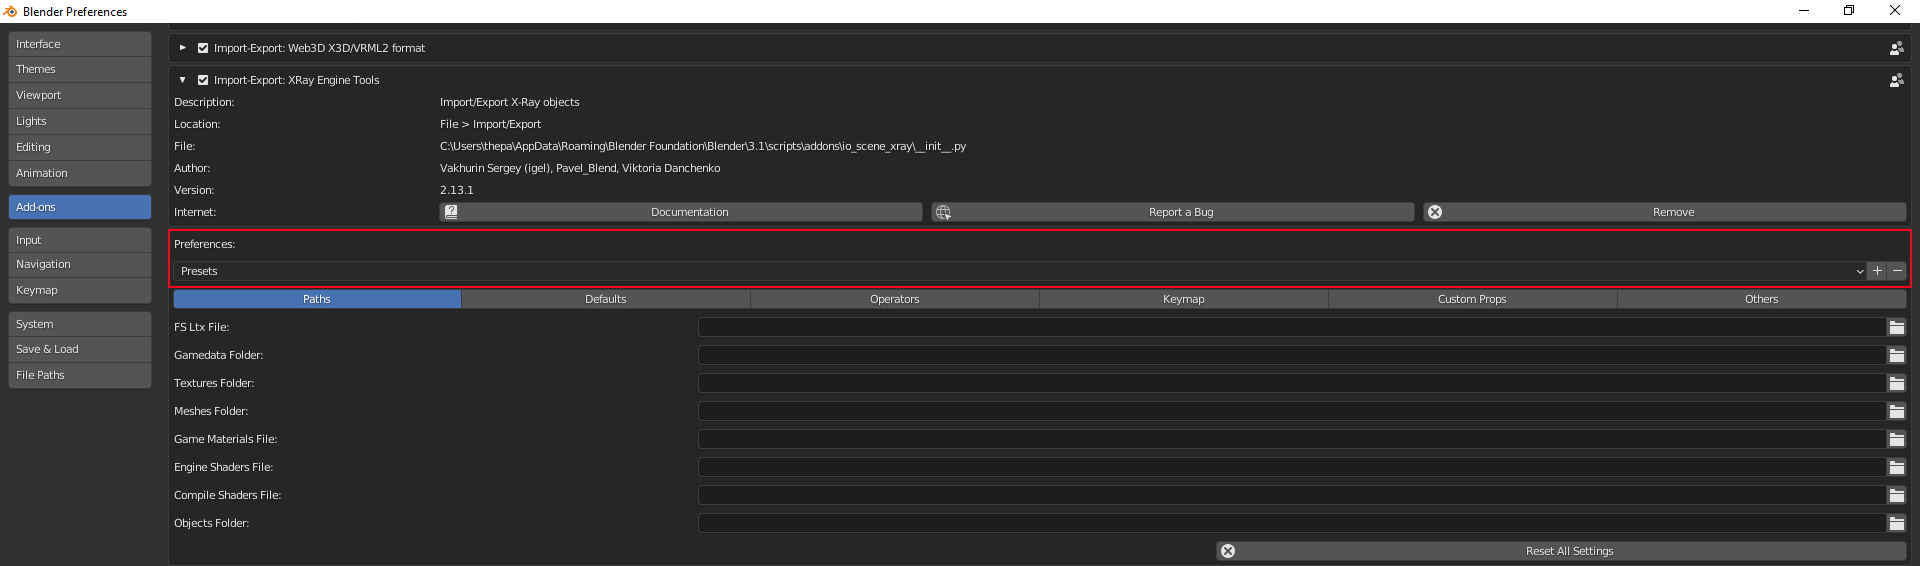
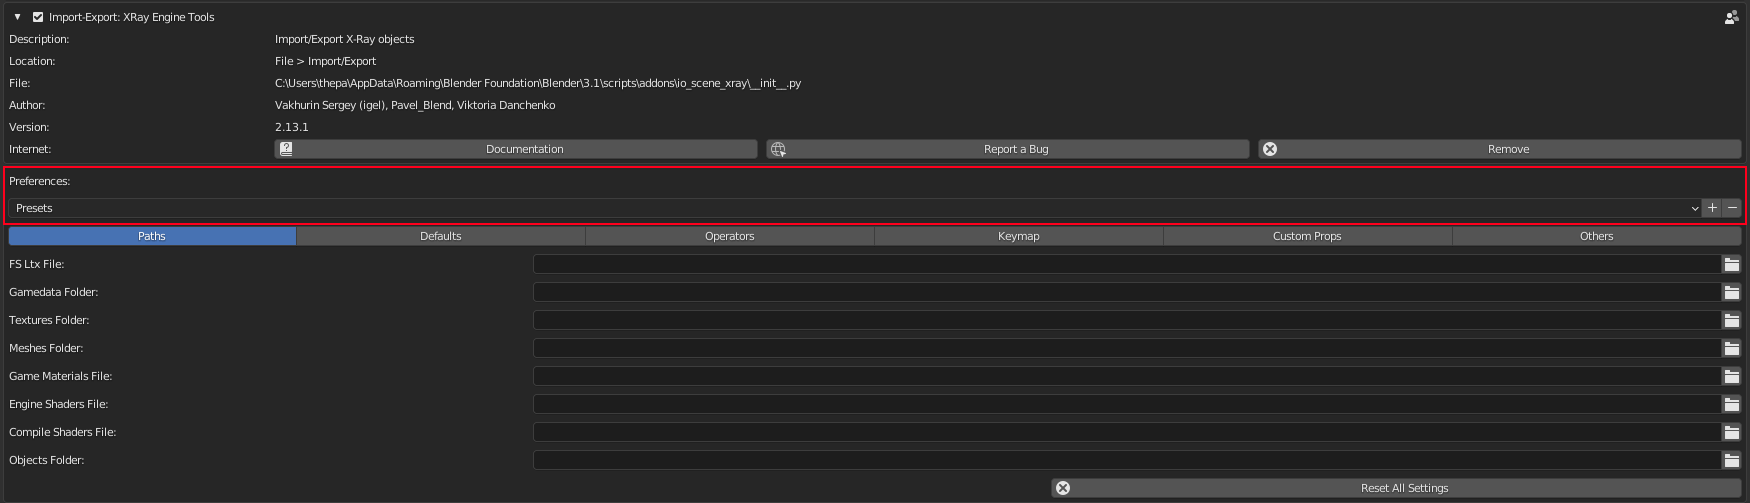
Added: Cosmetic improvements Even more readable screenshots Article about creating a model in Blender Supported Format Table

diff --git a/src/blender/creating-model-in-blender.md b/src/blender/creating-model-in-blender.md
@@ -1,15 +1,18 @@
 # Creating/downloading a model and adding it to the game via Blender
 
+This article is about creating a model and setting its parameters
+
 ## Beginning
 
-First, familiarize yourself with the limitations and capabilities of the format [.object](file-formats/.object.md) (because you may export to it more often than to .ogf) to avoid errors.
+- First, familiarize yourself with the limitations and capabilities of the format [.object](../main-folders-and-files/file-formats/object.md) (because you may export to it more often than to .ogf) to avoid errors.
+- This article will talk about textures, read an article about creating and preparing them
 
 ## Start
 
 Create or download the model you like.
 Do a UV sweep if you don't have one.
 
-### Example:
+- ### Example:
 
 The model itself:
 ![model-example](blender-images/model-example.png)
@@ -20,3 +23,176 @@ UV:
 ## Texturing
 
 Textures can be created in any program designed for this purpose, or you can simply download them.
+
+Texture:
+![model-example-texture](blender-images/model-example-texture.png)
+
+- ### Important note about texture maps
+In STALKER, due to its outdated engine, only the following texture maps are used:
+- Color Map ([.dds])
+- Normal Maps (For Stalker they are used as [.bump]() and .bump#) (The Blender X-Ray addon does not support the .bump format at this time (June 2022).)
+
+So extra texture maps will have to be removed.
+
+Here you need to add your created texture in [.dds] format
+
+As a result, in the Shader Editor our textures should look something like this:
+![model-example-texture-shading](blender-images/model-example-texture-shading.png)
+
+So after creating the model, the UV and the texture, the setup within Blender begins.
+
+## Setting up
+
+- ### Model
+First, the model itself will be set up. 
+You can start by positioning the model over the origin in this way (The ["Drop It"](https://andreasaust.gumroad.com/l/drop_it) addon for Blender is highly recommended for such actions):
+![model-example-coordinates](blender-images/model-example-coordinates.png)
+
+Then apply the coordinates with Ctrl + A > All Transform. This will allow us (if you make for example a model library or work in the SDK) to drag and drop the model on the surface.
+
+Next, we need to adjust our model to normal size (so that in the game it will not be big or small).
+If you have already set up the addon to use and set up the necessary paths to your folders, you need to import into the scene model of some person from the game.
+
+In the N-panel there should be a tab "X-Ray" in it unfolds the list "Viewer" and we click "Open Folder".
+![viewer-n-panel](blender-images/viewer-section.png)
+
+The Blender explorer window opens. Go to our unpacked folder with the game files (namely the folder "meshes").
+The character models you need are in the "actors" folder, where the faction models are sorted into folders. [(More about the structure of folders, main folders and files you can learn here)](../main-folders-and-files/README.md)
+![viewer-browser](blender-images/viewer-section-file-browser.png)
+
+Select the desired folder with the models and click on the "Open Folder" button. 
+![viewer-open-folder-button](blender-images/open-folder-button.png)
+
+Depending on the size of the models in the "Viewer" folder may take longer to open than you would like.
+So, "Viewer" is open. It shows all the models in the selected folder. Click on any model and a character model appears in front of us.
+![viewer-import](blender-images/importing-model-from-viewer.png)
+
+Next, we just adjust our model to acceptable proportions.
+After fitting, apply transformations to our object.
+![viewer-adjust](blender-images/aspect-ratio-correction.png)
+
+In the "Viewer" list, we can click on "Close Folder" to close the list of models and the model imported to us in the scene, too.
+Image Here
+
+At this point we have to decide what type of model we want to use (static, dynamic, or something else). (About the types of objects you can learn here)
+
+It was decided to make our object dynamic. 
+To do this, you need to create a bone and a vertex group (so that the bone can affect exactly the vertices you choose).
+Select the model and go to the "Object Data Properties" tab
+Image here
+
+Under "Vertex Groups" click on the plus sign (a "Vertex Group" with the name "Group" will be added) and double-click to rename it (the same name will be needed later for the bone).
+![vertex-group](blender-images/vertex-group.png)
+
+The next step is to create a bone (Shift + A > Armature > Single Bone).
+![bone-create](blender-images/create-bone.png)
+
+To make our model move like the bone in the future, we need to rename the bone to the name that was given to "Vertex Groups".
+Go to the "Bone Properties" tab and rename the bone.
+![bone-properties](blender-images/bone-properties.png)
+![bone-rename](blender-images/bone-rename.png)
+
+Select our object and switch to "Wireframe" mode ("Z" Button) (this is optional).
+Place the bone approximately in the center of the model.
+![bone-place](blender-images/bone-positing.png)
+
+After that, apply the bone transformations (Ctrl + A > All Transform).
+
+Select our model and go to the "Modifier Properties" tab.
+![modifier-properties](blender-images/modifier-properties.png)
+
+In the "Modifier Properties" tab, add the "Armature" modifier (Add Modifier > Armature (under Deform)).
+![armature-modif-create](blender-images/armature-modifier.png)
+
+The modifier has the following necessary items:
+- Object
+- Bind to (Add Checkbox svg) Vertex Groups
+
+In the "Object" field, select our bone (you can select it with the eyedropper (Add svg icon)).
+Also make sure that the checkbox next to "Vertex Grops" is marked.
+These actions allowed us to bond our object and bone, but not yet to the fullest extent.
+
+Next step:
+First select the bone after selecting the model, press Ctrl + P. A list appears, select "Bone".
+![parenting](blender-images/parent-to-bone.png)
+
+This allowed the bone and the model to be fully bonded together. Now when the bone moves or rotates, the model will move with it.
+
+Now you have to set the bone properties for X-Ray.
+
+- ### Bone
+Select the bone and go to the "Bone Properties" tab.
+![bone-properties-p2](blender-images/bone-properties.png)
+
+We see the "X-Ray Engine: Bone" section.
+![bone-section](blender-images/x-ray-engine-bone.png)
+
+The desired field is "Shape Type" (where you choose the type of shape (for collision)).
+From the whole list, our object is more suitable for the "Box" type. Let's choose it.
+Next, click the "Edit Shape" button to check and edit the Shape itself.
+The Shape of the bone appears and it does not match the model.
+The Shape that just appeared is automatically selected and the "Object Properties" tab is selected.
+![bone-shape](blender-images/create-shape.png)
+
+In the same tab we see the "X-Ray Engine: Edit Helper" section with three buttons:
+
+- Apply Shape (accepts changes to the bone shape)
+- Fit Shape (Blender will automatically try to fit the Shape to the size of the object)
+- Cancel (closes Shape editing mode)
+
+![edit-helper](blender-images/x-ray-engine-edit-helper.png)
+
+Apply Shape may help in some cases, but not in this one (nothing happens after clicking), so you need to adjust the Shape manually.
+Without going into Edit mode, press "S" and start fitting the Shape to the model. Going through the combinations, changing the shape of the Shape, we finally create an acceptable Shape.
+![bone-shape-p2](blender-images/shape-fit-handy.png)
+
+Accept the transformation by clicking on "Apply Shape". Everything will apply and the Shape will disappear.
+To check the correctness of the shape and adjust the center of mass for the bone, go to the "Object Data Properties" panel.
+![object-data-properties-panel](blender-images/object-data-properties-skeleton.png)
+
+Here we see the "X-Ray Engine: Skeleton" section and the two buttons we need:
+- Display Bone Shape
+- Display Bone Mass Centers
+
+![x-ray-engine-skeleton](blender-images/x-ray-engine-skeleton.png)
+
+Click on "Display Bone Shape" to check the bone shape
+![display-bone-shape](blender-images/display-bone-shape.png)
+
+And by clicking on "Display Bone Mass Centers" a Cross will appear, from which you can understand where the center of mass is located (its mass and location can be edited in the tab "Bone Properties").
+![display-bone-mass](blender-images/center-of-mass-editing.png)
+
+Go to the "Object Properties" tab.
+Here you will find the "X-Ray Engine: Object" section.
+![x-ray-engine-object](blender-images/x-ray-engine-object.png)
+
+Remember that our object, by design, will be dynamic, so click on the button "Object", where we select the type "Dynamic".
+
+The editing of the bone parameters is finished, the next step is Materials.
+
+- ### Material
+Select our object and go to the "Material Priperties" tab.
+![material-properties](blender-images/material-properties.png)
+
+Here we see the name of our material and a list of "X-Ray Engine: Material" with lots of items.
+![x-ray-engine-material](blender-images/x-ray-engine-material.png)
+
+There is no point in telling about each point here. (there is a separate section in the book)
+The items we need for the model now are:
+
+- Shader (This setting is responsible for the appearance of the surface.)
+- Compile (Here are descriptions of the settings that the level geometry compiler uses)
+- Material (Here you can select surface materials)
+
+You can leave everything as it is according to the default.
+
+Well, the model setup in Blender is done. Congratulations!
+
+## The final stage
+
+- ### Checking the model for correct operation
+To check the model you can go the following ways:
+
+- Load the model into the SDK and check
+- Export the model in .ogf format and add it directly to the game.
+- [Check the model and parameters through third-party programs](../modding-tools/modding-tools.md)

diff --git a/src/blender/addon-settings-options/pathes.md b/src/blender/addon-settings-options/pathes.md
@@ -15,26 +15,26 @@ The addon automatically sets these values:
 
 "-" - means that automatic path setting does not work for this parameter. The automatic path setting will work if you specify any parameter other than Objects Folder first.
 
-## - fs.ltx File
+- ## - fs.ltx File
 Path to the fs.ltx file. This file is in the X-Ray SDK and stores directory paths. Addon uses fs.ltx file only to automatically set the following paths: Gamedata Folder, Textures Folder, GameMtl File, EShader File, CShader File, Objects Folder. Only these variables from the file are used: $game_data$, $game_textures$, $objects$. The files gamemtl.xr, shaders.xr, shaders_xrlc.xr are searched in the directory that is specified in $game_data$. If parameters Gamedata Folder, Textures Folder, GameMtl File, EShader File, CShader File, Objects Folder are already configured, it is not necessary to specify fs.ltx File.
 Examples of use: this parameter is needed to set paths correctly automatically if fs.ltx file was edited and X-Ray SDK uses paths that are different from gamedata, gamedata\textures, rawdata\objects.
 
 - ## Gamedata Folder
 The path that must refer to the gamedata folder (or to the folder specified in $game_data$ if fs.ltx has been changed). This path is used only for automatic installation of the following parameters: Textures Folder, GameMtl File, EShader File, CShader File, Objects Folder. The paths are automatically set by adding Gamedata Folder and preset values. The values are set as follows: Textures Folder - textures, GameMtl File - gamemtl.xr, EShader File - shaders.xr, CShader File - shaders_xrlc.xr, Objects Folder - ..rawdata\objects, where .. in the beginning Objects Folder means go one folder back in path. That is, the path to the Objects Folder will look like this: c:\programs\xray_sdk\rawdata\objects\, if Gamedata Folder has the following value: c:\programs\xray_sdk\gamedata\.
 
-## - Textures Folder
+- ## - Textures Folder
 The path that should refer to $game_textures$. This is usually the gamedata\textures folder which contains the textures. Only the dds format is supported for loading. This path is only used by plugins that import/export formats that support textures (such as *.object, *.dm, *.ogf...). Some plugins do not use this path (for example, *.err, *.skls...). When importing some formats, the addon looks for dds textures at this path and loads them into blender.
 
-## - GameMtl File
+- ## - GameMtl File
 Path to the gamemtl.xr file. Normally stored in gamedata\gamemtl.xr. This file stores surface materials. In the X-Ray Engine a material is a physical property of the surface, and does not affect the visual presentation (not to be confused with blender materials, which affect visual appearance). X-Ray Engine uses shaders to change the appearance of the surface. The material determines the sounds of footsteps, wallmark textures from shots, friction, particle effects when bullets hit, the ability to get cast shadows from dynamic objects... If this path refers to a gamemtl.xr file, then the list of the parameter GameMtl for materials and dice will be filled with the material names from the gamemtl.xr file and from this list you can click on any material name. If this path does not reference the gamemtl.xr file, then the GameMtl list of materials and bones will be empty. Only the names, text descriptions and integer material IDs are read from the gamemtl.xr file.
 
-## - EShader File
+- ## - EShader File
 The path to the shaders.xr file. Usually stored in gamedata\shaders.xr. This file contains descriptions of shader settings. EShader is an engine shader that is responsible for surface appearance. If this path refers to the shaders.xr file, the EShader list in blender material settings will be filled in with shader names from this file and you will be able to specify any engine shader name from this list. If this path doesn't reference the shaders.xr file, the EShader list of materials will be empty. Only shader names are read from the shaders.xr file.
 
-## - CShader File
+- ## - CShader File
 Path to the shaders_xrlc.xr file. Usually stored in gamedata\shaders_xrlc.xr. This file contains descriptions of the settings that are used by the level geometry compiler (xrLC.exe). CShader - compile shader (compiler shader) specifying properties of the final (game) level geometry to the level compiler. The source geometry, depending on the compiler shader, may have no visible or tangible (for collisions) geometry, have a different way of storing lighting, etc. If this path refers to the shaders_xrlc.xr file, the CShader list in blender materials will fill with shader names from that file and you can specify any compiler shader name from the list. Only shader names are read from shaders_xrlc.xr file.
 
-## - Objects Folder
+- ## - Objects Folder
 Path to the folder with the original 3D objects and animations. Usually located in the X-Ray SDK in the rawdata\objects folder. From this folder, the addon can only read *.object and *.skls files. Not all plugins use this folder. Only the object plugin for source objects and the .level plugin for the list of scene objects use it. Also this parameter is used by some operators, for example, Skls File Browser (if you run it from the Motion Refs scroll, Load Active Motion Refs mode). This folder contains the source models and animations in formats that store data without loss of information (without compression).
 
 ## Sources

diff --git a/src/blender/addon-installation-and-setup.md b/src/blender/addon-installation-and-setup.md
@@ -2,7 +2,7 @@
 
 [Download the latest version of the addon](https://github.com/PavelBlend/blender-xray/releases)
 
-Go into Blender. Click "Edit" > Preference
+Go into Blender. Click "Edit" > Preferences
 
 ![Installing-P1](blender-images/0.png)
 
@@ -26,13 +26,13 @@ In order to start setting up and using the addon, you need a little theory.
 
 ## Presets
 
-Addon settings presets. Intended to save settings, with the ability to switch between them. To create a new preset, you must first configure the addon settings and then click the button to the right with the ![plus](blender-images/plus.svg) plus sign. In the window that appears, specify the name of the preset and click OK. To delete a preset, select it from the list and click on the ![minus](blender-images/minus.svg) minus button.
+Addon settings presets. Intended to save settings, with the ability to switch between them. To create a new preset, you must first configure the addon settings and then click the button to the right with the plus (![plus](blender-images/plus.svg)) sign. In the window that appears, specify the name of the preset and click OK. To delete a preset, select it from the list and click on the minus (![minus](blender-images/minus.svg)) button.
 
 ![Setup-P2](blender-images/4.png)
 
 ## Path Settings
 
-These settings specify paths to external files or directories of X-Ray Engine or X-Ray SDK.It is possible to set paths automatically, based on a single parameter. For example, if you specify the gamedata folder in the Gamedata Folder parameter, empty paths (except, fs.ltx File) will be filled in automatically. Automatically filled paths have text (auto) at the end of the name. To change the path manually, you have to click on the button with a ![wrench](blender-images/wrench.svg) wrench. The wrench button will disappear and the folder icon button will be displayed instead. You can then open the file browser using the folder button. In the browser, select the desired folder or file. Or you can change the path in the text box by typing it in from the keyboard. If the path is set manually, its value will not be changed automatically by the addon. To return the automatic path indication, you need to clear the path input field.
+These settings specify paths to external files or directories of X-Ray Engine or X-Ray SDK.It is possible to set paths automatically, based on a single parameter. For example, if you specify the gamedata folder in the Gamedata Folder parameter, empty paths (except, fs.ltx File) will be filled in automatically. Automatically filled paths have text (auto) at the end of the name. To change the path manually, you have to click on the button with a wrench (![wrench](blender-images/wrench.svg)). The wrench button will disappear and the folder icon button will be displayed instead. You can then open the file browser using the folder button. In the browser, select the desired folder or file. Or you can change the path in the text box by typing it in from the keyboard. If the path is set manually, its value will not be changed automatically by the addon. To return the automatic path indication, you need to clear the path input field.
 
 Example Path Settings:
 ![Setup-P3](blender-images/5.png)

diff --git a/src/blender/blender-x-ray-addon-summary.md b/src/blender/blender-x-ray-addon-summary.md
@@ -8,6 +8,22 @@
 blender-xray is an addon for the 3D blender package (blender.org) that is designed to import/export 3D models and animations from S.T.A.L.K.E.R. (engine - X-Ray Engine).
 
 ## [Supported formats](https://github.com/PavelBlend/blender-xray/wiki#supported-formats)
+This table lists the X-Ray file formats that the addon can import/export.
+
+| Extension | Description | Import | Export | Remarks |
+---|---|---|---|---|
+| [.object](../main-folders-and-files/file-formats/object.md) | Source objects | + | + |  |
+| .anm | Animated paths | + | + |  |
+| .dm | Detailed effect models | + | + |  |
+| .details | Detailed level models | + | + |  |
+| .skl | Skeletal animation | + | + |  |
+| .skls | Skeletal animations in a container | + | + |  |
+| .bones | Bone data | + | + |  |
+| .err | Geometry errors | + | + |  |
+| .level | List of scene objects in the SDK | + | + |  |
+| level | Game levels | + | + |  |
+| .ogf | Compiled objects | + | +* | *Experimental |
+| [.omf](../main-folders-and-files/file-formats/omf.md) | Compiled skeleton animations | + | + |  |
 
 ## [Compatibility (Below are the versions of blender that support the addon. The addon is not tested in other versions of blender](https://github.com/PavelBlend/blender-xray/wiki#supported-blender-versions)):
 
